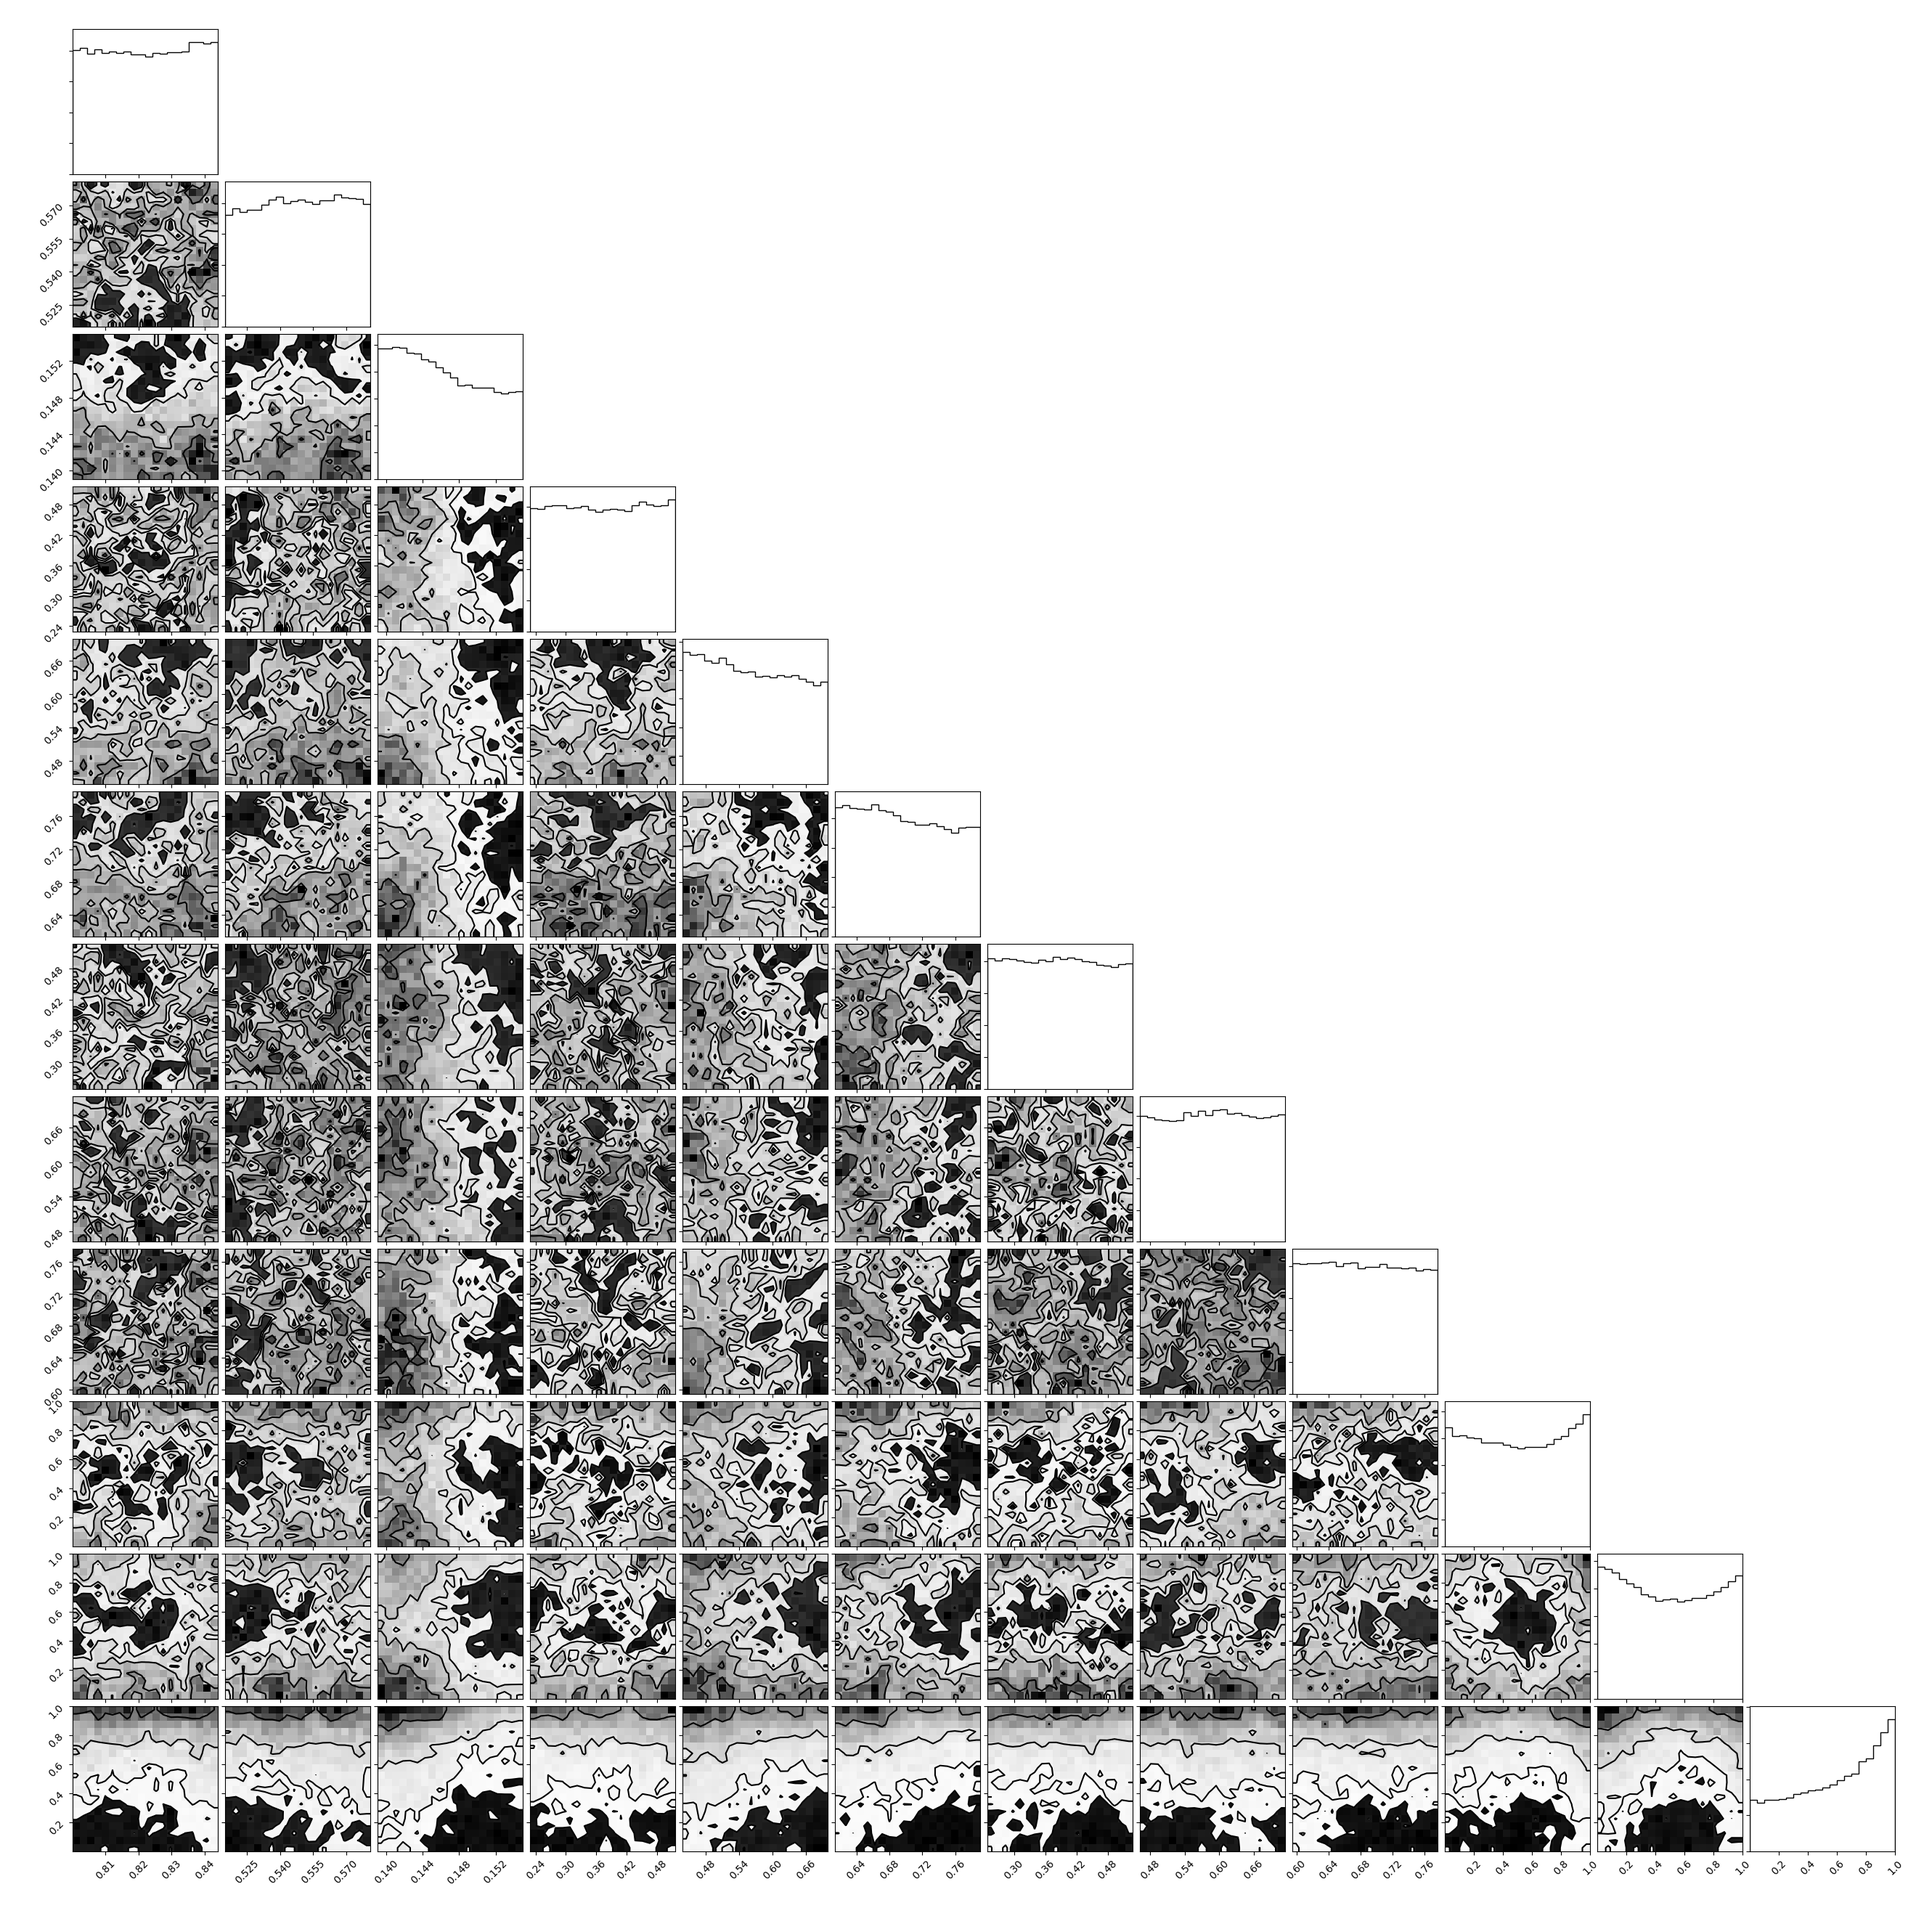
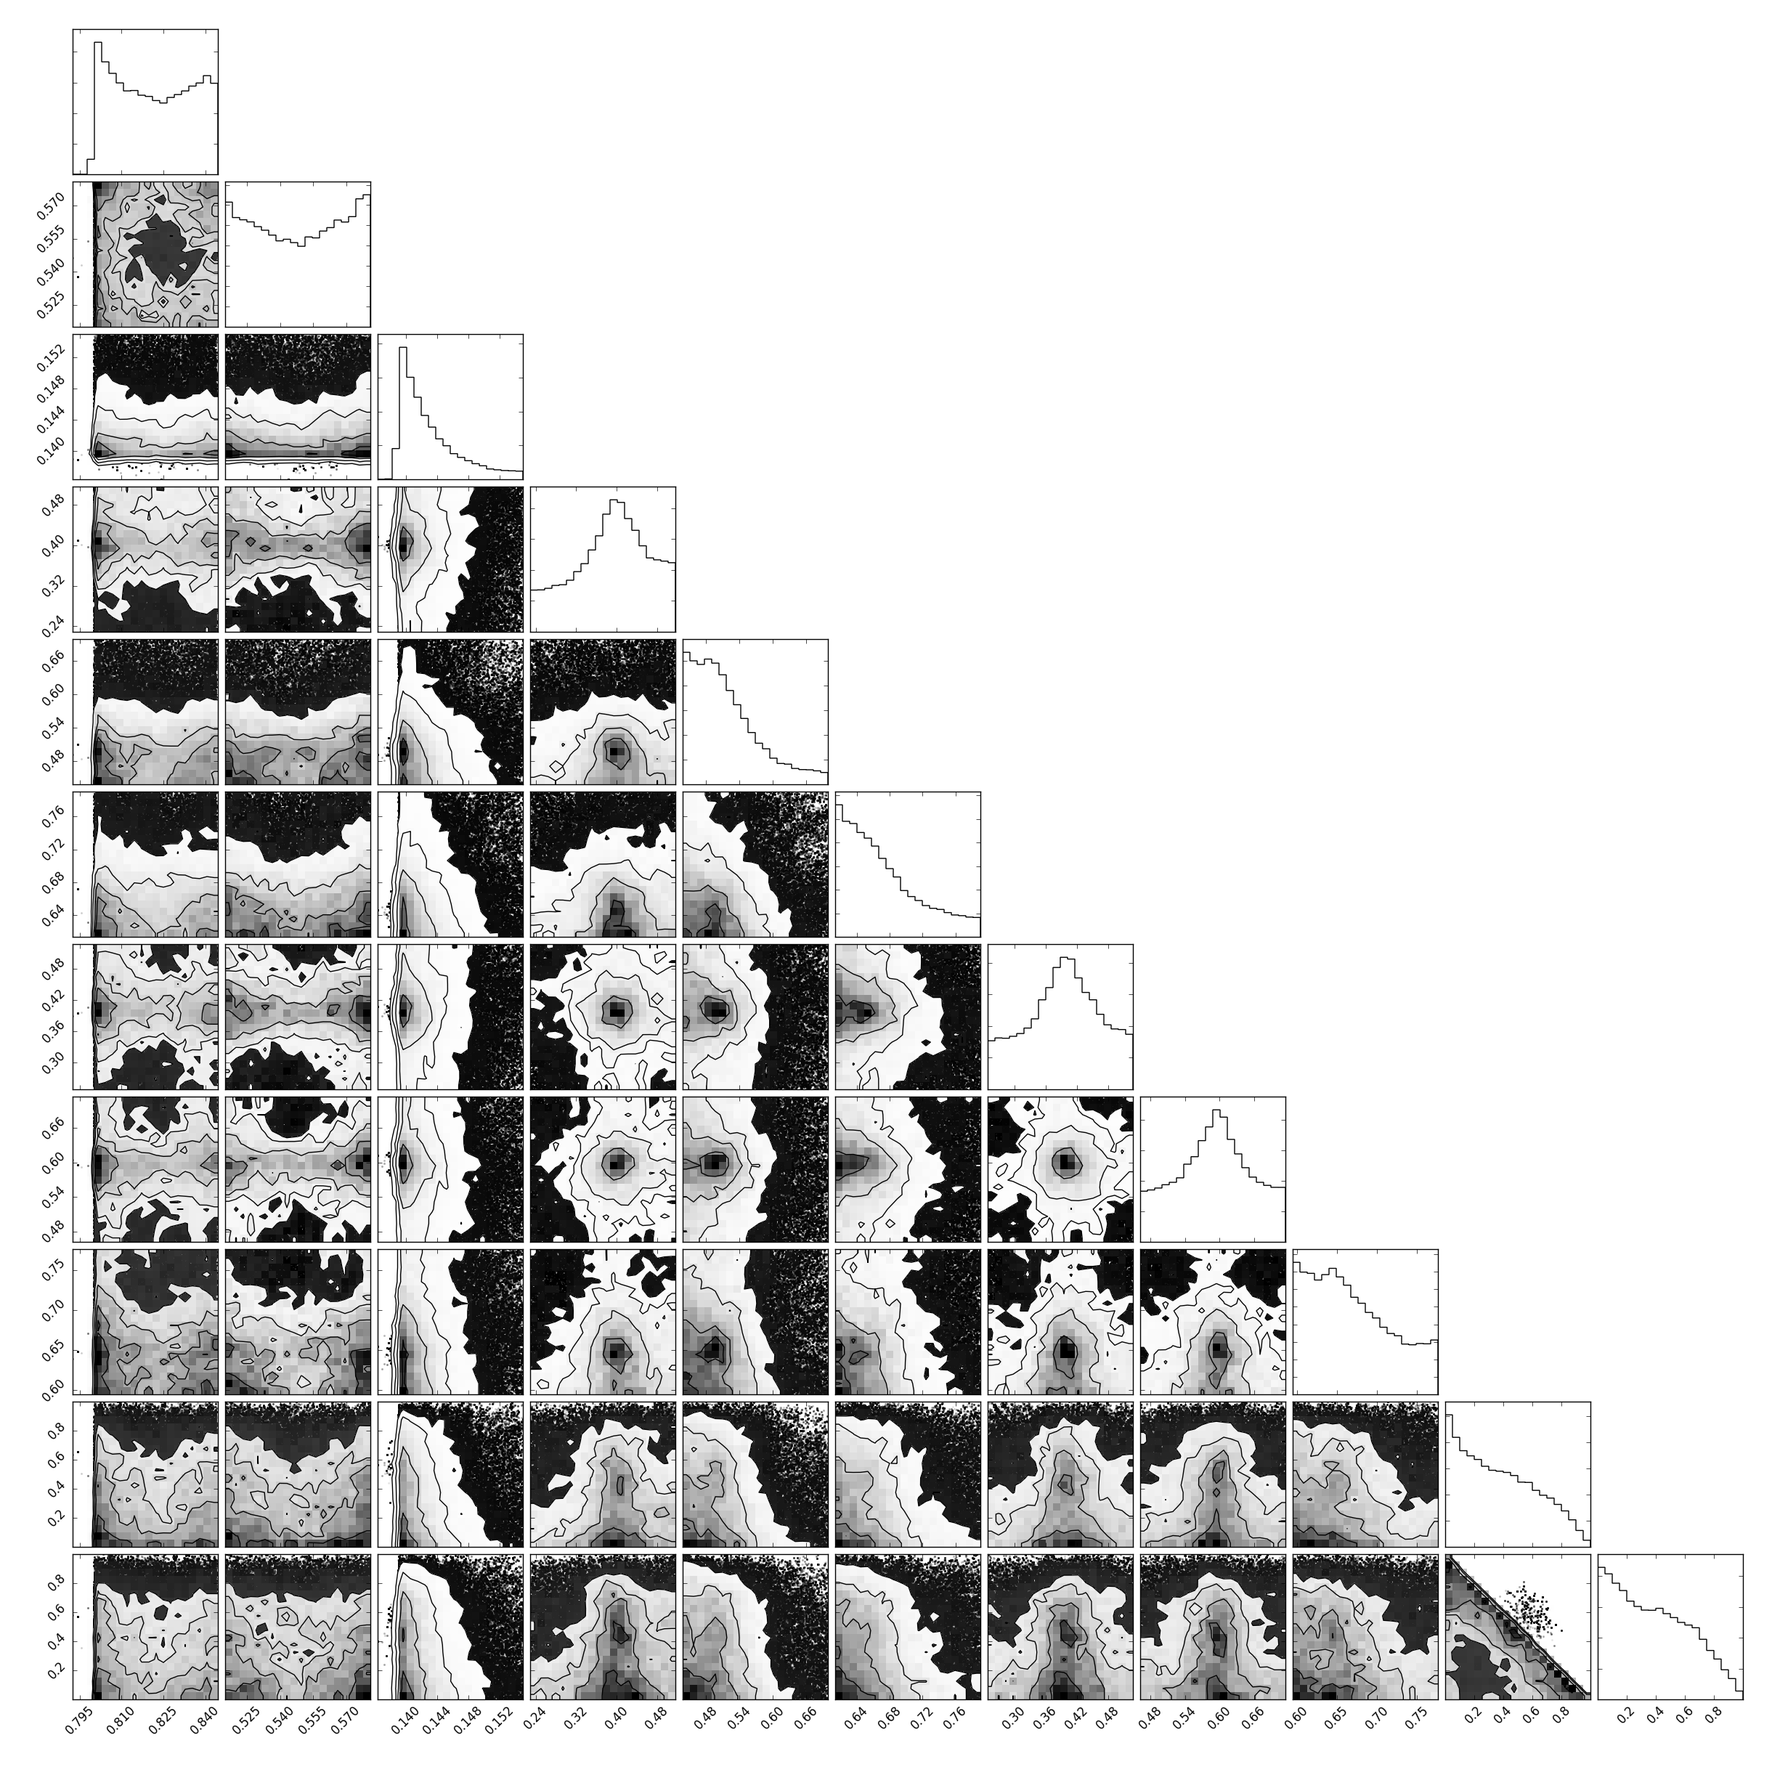
Tue 19 Sep 16:42:59 CDT 2017

diff --git a/mcmc_scan.py b/mcmc_scan.py
@@ -19,33 +19,47 @@ BESTFIT = [0.5, 0.5, 0.0]
 SIGMA = 0.2
 
 
+def u_to_fr(initial_fr, mm_params):
+    """Compute the observed flavour ratio assuming decoherence."""
+    matrix = np.array(mm_params).reshape(3, 3)
+    composition = np.einsum(
+        'ai, bi, a -> b', abs(matrix)**2, abs(matrix)**2, initial_fr
+    )
+    ratio = composition / np.sum(initial_fr)
+    return ratio
+
+
 def triangle_llh(theta):
     """-Log likelihood function for a given theta."""
-    fr = theta[-3:]
+    fr1, fr2 = theta[-2:]
+    fr3 = 1.0 - (fr1 + fr2)
+
+    fr = u_to_fr((fr1, fr2, fr3), theta[:-2])
     fr_bf = BESTFIT
-    SIGMA = 0.2
     cov_fr = np.identity(3) * SIGMA
     return -np.log10(multivariate_normal.pdf(fr, mean=fr_bf, cov=cov_fr))
 
 
 def lnprior(theta):
     """Priors on theta."""
-    ue1, ue2, ue3, um1, um2, um3, ut1, ut2, ut3, fr1, fr2, fr3 = theta
-    
+    ue1, ue2, ue3, um1, um2, um3, ut1, ut2, ut3, fr1, fr2 = theta
+
+    fr3 = 1.0 - (fr1 + fr2)
+
     allow = True
     # Flavour ratio bounds
     if 0. <= fr1 <= 1.0 and 0. <= fr2 <= 1.0 and 0. <= fr3 <= 1.0:
         pass
     else: allow = False
 
-    # mixing elements 3sigma bound using nufit
+    # Mixing elements 3sigma bound from nufit
     if 0.800 <= ue1 <= 0.844 and 0.515 <= ue2 <= 0.581 and 0.139 <= ue3 <= 0.155 \
     and 0.229 <= um1 <= 0.516 and 0.438 <= um2 <= 0.699 and 0.614 <= um3 <= 0.790 \
     and 0.249 <= ut1 <= 0.528 and 0.462 <= ut2 <= 0.715 and 0.595 <= ut3 <= 0.776:
         pass
     else: allow = False
-        
-    # TODO(shivesh): enforce sum of flavour ratios? enforce unitarity?
+
+    # TODO(shivesh): enforce unitarity?
     if allow: return 0.
     else: return -np.inf
 
@@ -101,13 +115,13 @@ def main():
     BESTFIT = np.array(args.bestfit_ratio) / float(np.sum(args.bestfit_ratio))
     SIGMA = args.sigma_ratio
 
-    ndim = 12
+    ndim = 11
     nwalkers = args.nwalkers
     ntemps = 1
     burnin = args.burnin
     betas = np.array([1e0, 1e-1, 1e-2, 1e-3, 1e-4])
-    p0_base = [0.82, 0.55, 0.14, 0.40, 0.50, 0.65, 0.40, 0.60, 0.65, 0.5, 0.5, 0.5]
-    p0_std = [0.01, 0.01, 0.001, 0.01, 0.01, 0.01, 0.01, 0.01, 0.01, 0.1, 0.1, 0.1]
+    p0_base = [0.82, 0.55, 0.14, 0.40, 0.50, 0.65, 0.40, 0.60, 0.65, 0.5, 0.5]
+    p0_std = [0.01, 0.01, 0.001, 0.01, 0.01, 0.01, 0.01, 0.01, 0.01, 0.1, 0.1]
 
     p0 = np.random.normal(p0_base, p0_std, size=[ntemps, nwalkers, ndim])
     print map(lnprior, p0[0])

diff --git a/plot_mcmc.py b/plot_mcmc.py
@@ -20,7 +20,7 @@ def parse_args():
         help='Path to chains'
     )
     parser.add_argument(
-        '--outfile', type=str, default='./untitled.npy',
+        '--outfile', type=str, default='./untitled.png',
         help='Path to output chains'
     )
     args = parser.parse_args()
